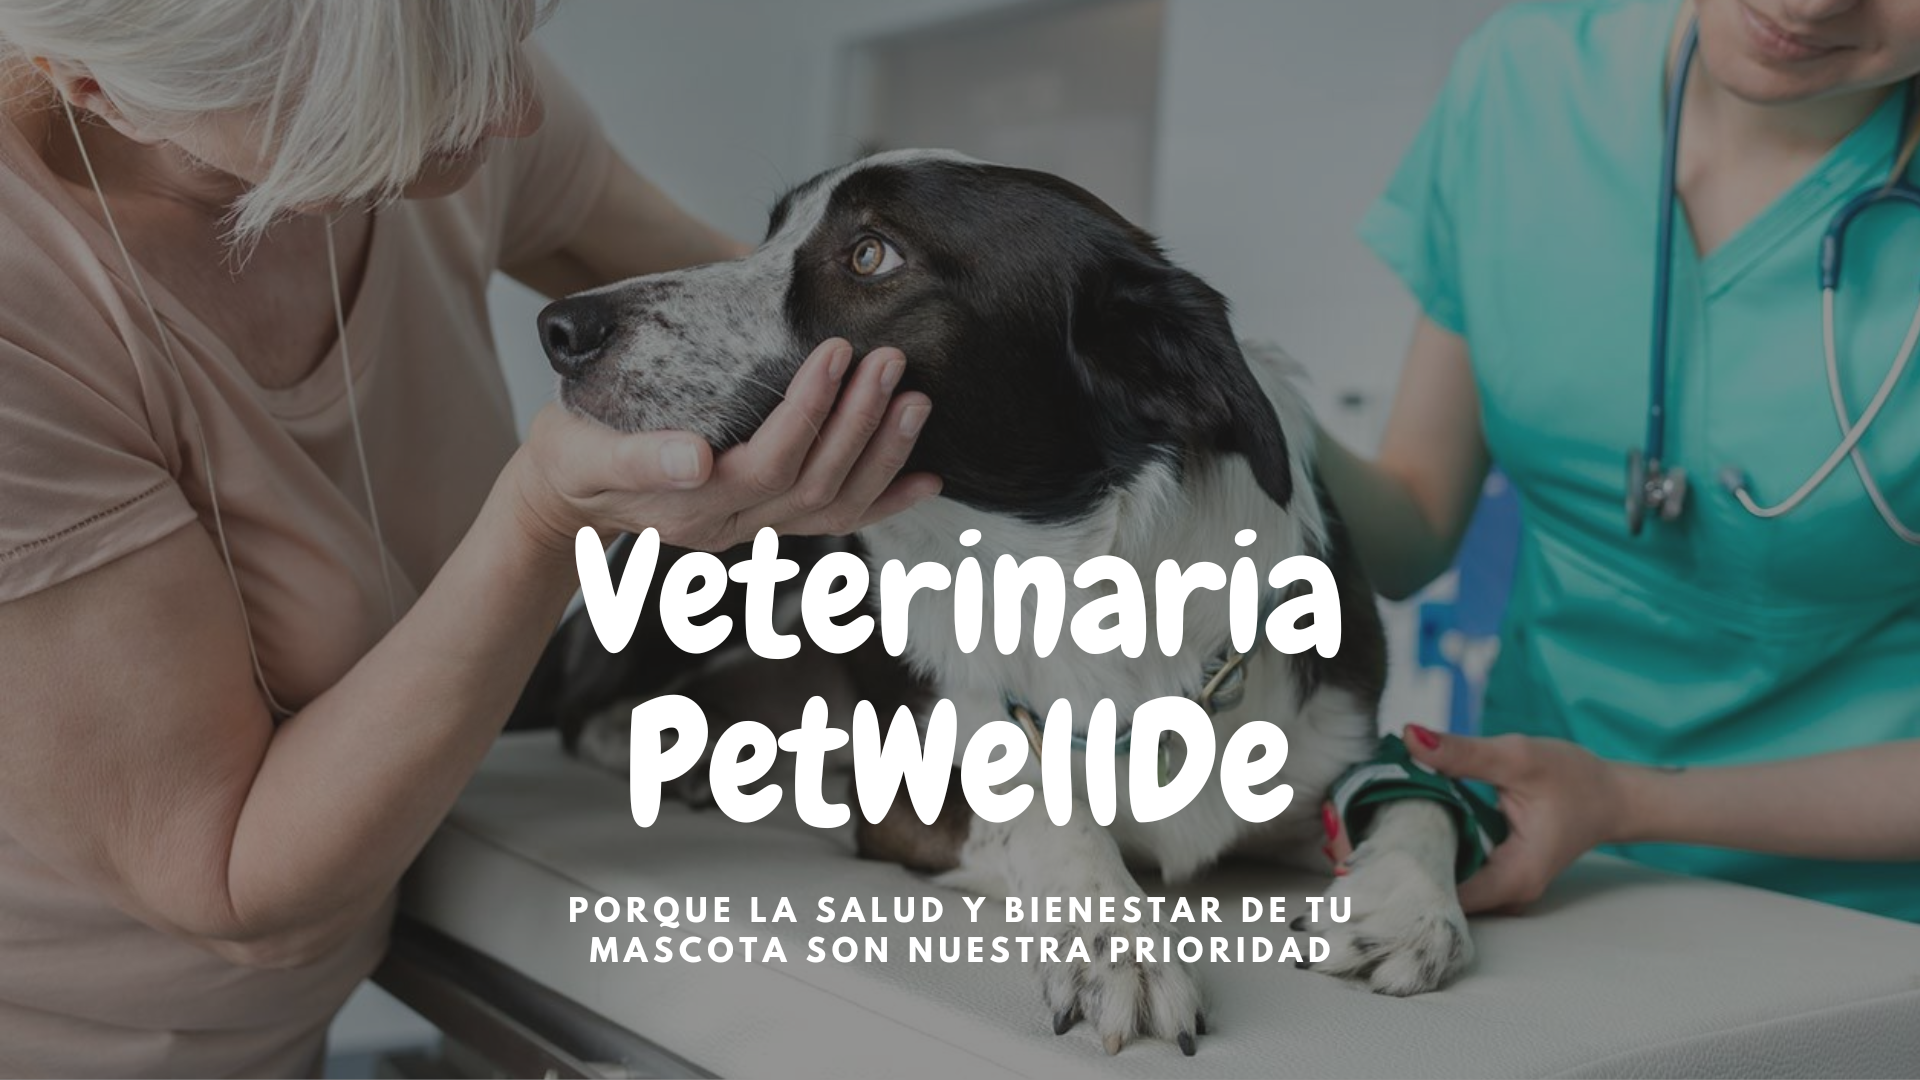
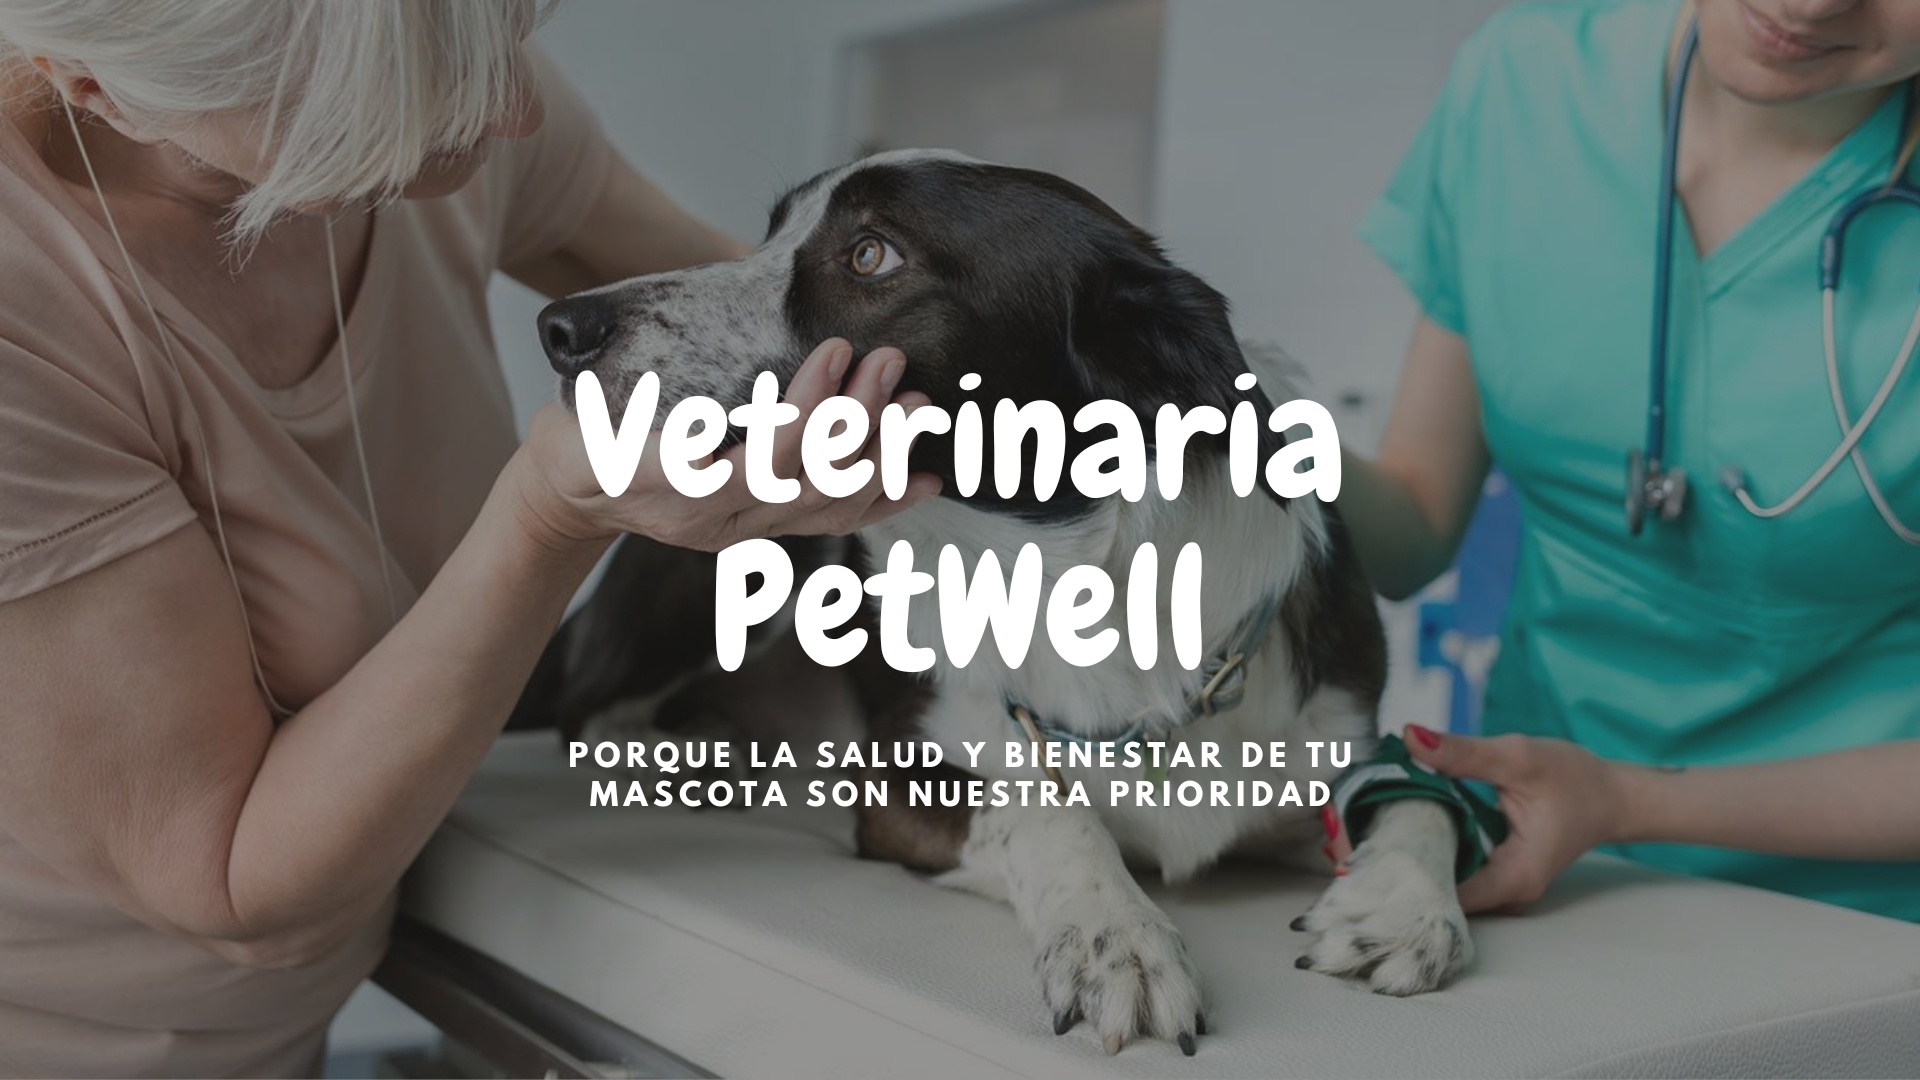
finished the first version of the website

Changed region(s): [[0.2812, 0.4889, 0.7188, 0.7639], [0.2812, 0.3361, 0.7188, 0.4583], [0.2812, 0.825, 0.7188, 0.8861]]

diff --git a/DjangoPostgres/DjangoPostgres/templates/pages/home.html b/DjangoPostgres/DjangoPostgres/templates/pages/home.html
@@ -1,21 +1,21 @@
 {% extends '../base.html' %}
 {% load static %}
 
-{% block title %} Veterinaria {% endblock %}
+{% block title %} PetWell {% endblock %}
 
 {% block content %}
-    <!-- ============ CAROUSEL ============ -->
+    <!-- ================= CAROUSEL ================= -->
     <div class="container_main">
         <div id="carouselExampleControls" class="carousel slide" data-ride="carousel">
             <div class="carousel-inner">
                 <div class="carousel-item active">
-                    <img src="{% static "imgs/perrito1.png" %}" class="d-block w-100" alt="Perro1">
+                    <img src="{% static 'imgs/perrito1.png' %}" class="d-block w-100" alt="Perro1">
                 </div>
                 <div class="carousel-item">
-                    <img src="{% static "imgs/perrito2.png" %}" class="d-block w-100" alt="Perro2">
+                    <img src="{% static 'imgs/perrito2.png' %}" class="d-block w-100" alt="Perro2">
                 </div>
                 <div class="carousel-item">
-                    <img src="{% static "imgs/perrito3.png" %}" class="d-block w-100" alt="Perro3">
+                    <img src="{% static 'imgs/perrito3.png' %}" class="d-block w-100" alt="Perro3">
                 </div>
             </div>
             <button class="carousel-control-prev" type="button" data-target="#carouselExampleControls" data-slide="prev">
@@ -28,13 +28,256 @@
             </button>
         </div>
     </div>
-    <!-- ============ END CAROUSEL ============ -->
+    <!-- ================= END CAROUSEL ================= -->
 
-    <!-- ABOUT US -->
+    <!-- ================= ABOUT US ================= -->
     <section id="about">
-        <h1>Sobre nosotros</h1>
+        <h1 class="title">Sobre nosotros</h1>
+        <div class="container div-main-about">
+            <div class="img-cat-about">
+                <img src="{% static 'imgs/perrito-doctor.png' %}" alt="">
+            </div>
+            <div class="text-about">
+                <p class="text">
+                    PetWell ofrece una amplia gama de servicios para satisfacer las necesidades de salud y bienestar de las mascotas de sus clientes. Estos servicios incluyen, pero no se limitan a: <br> <br>
+                    - Consultas veterinarias y exámenes físicos de rutina <br>
+                    - Vacunación y desparasitación <br>
+                    - Cirugía general y especializada <br>
+                    - Diagnóstico y tratamiento de enfermedades y lesiones <br>
+                    - Análisis de laboratorio y radiología <br>
+                    - Cuidado dental y limpieza de dientes <br>
+                    - Nutrición y dietas personalizadas <br> 
+                    - Hospedaje y cuidado de mascotas <br>
+                    - Peluquería y baño <br>
+                    - Servicios de emergencia y cuidados intensivos
+                </p>
+                <p class="text">
+                    Además, PetWell se compromete a brindar un servicio personalizado y cercano a sus clientes, proporcionando un ambiente amigable y acogedor tanto para las mascotas como para sus dueños.
+                </p>
+            </div>
+        </div>
     </section>
-    <!-- END ABOUT US -->
+    <!-- ================= END ABOUT US ================= -->
+
+    <!-- ================= SERVICES ================= -->
+    <section id="services">
+        <h1 class="title">Servicios</h1>
+        <div class="container div-main-services">
+            <table class="table">
+                <thead class="thead-dark">
+                  <tr>
+                    <th scope="col">#ID</th>
+                    <th scope="col">Nombre</th>
+                    <th scope="col">Fecha</th>
+                    <th scope="col">Servicio</th>
+                    <th scope="col">Acción</th>
+                  </tr>
+                </thead>
+                <tbody>
+                  <tr>
+                    <th scope="row">1</th>
+                    <td>Mark</td>
+                    <td>22/03/2022</td>
+                    <td>Baño completo</td>
+                    <td>
+                        <button type="button" class="btn btn-primary">Editar</button>
+                        <button type="button" class="btn btn-danger">Eliminar</button>
+                    </td>
+                  </tr>
+                  <tr>
+                    <th scope="row">2</th>
+                    <td>Jacob</td>
+                    <td>21/03/2022</td>
+                    <td>Limpieza Dental</td>
+                    <td>
+                        <button type="button" class="btn btn-primary">Editar</button>
+                        <button type="button" class="btn btn-danger">Eliminar</button>
+                    </td>
+                  </tr>
+                  <tr>
+                    <th scope="row">3</th>
+                    <td>Larry</td>
+                    <td>20/03/2022</td>
+                    <td>Corte de uñas</td>
+                    <td>
+                        <button type="button" class="btn btn-primary">Editar</button>
+                        <button type="button" class="btn btn-danger">Eliminar</button>
+                    </td>
+                  </tr>
+                  <tr>
+                    <th scope="row">3</th>
+                    <td>Alberto</td>
+                    <td>109/03/2022</td>
+                    <td>Corte de uñas</td>
+                    <td>
+                        <button type="button" class="btn btn-primary">Editar</button>
+                        <button type="button" class="btn btn-danger">Eliminar</button>
+                    </td>
+                  </tr>
+                  <tr>
+                    <th scope="row">3</th>
+                    <td>Joaquin</td>
+                    <td>18/03/2022</td>
+                    <td>Baño completo</td>
+                    <td>
+                        <button type="button" class="btn btn-primary">Editar</button>
+                        <button type="button" class="btn btn-danger">Eliminar</button>
+                    </td>
+                  </tr>
+                </tbody>
+              </table>
+        </div>
+    </section>
+    <!-- ================= END SERVICES ================= -->
+
+
+    <!-- ================= CONTACT ================= -->
+    <section id="contact">
+        <h1 class="title">Contacto</h1>
+        <div class="container div-main-contact">
+            <div class="form-about">
+                <form>
+                    <div class="form-group">
+                        <label for="exampleInputName">Nombre completo</label>
+                        <input type="text" class="form-control" id="exampleInputName">
+                    </div>
+                    <div class="form-group">
+                      <label for="exampleInputEmail1">Correo</label>
+                      <input type="email" class="form-control" id="exampleInputEmail1" aria-describedby="emailHelp">
+                      <small id="emailHelp" class="form-text text-muted">Nunca compartiremos su correo electrónico con nadie más.</small>
+                    </div>
+                    <div class="form-group">
+                        <label for="FormControlTextarea">Mensaje</label>
+                        <textarea class="form-control" id="FormControlTextarea" rows="5"></textarea>
+                    </div>
+                    <button class="btn btn-primary">Submit</button>
+                </form>
+            </div>
+            <div class="social-media">
+                
+            </div>
+        </div>
+    </section>
+    <!-- ================= END CONTACT ================= -->
+
+    <!-- ================= FOOTER ================= -->
+    <footer class="bg-primary text-center text-lg-start text-white">
+        <div class="container p-4">
+        <div class="row my-4">
+            <div class="col-lg-3 col-md-6 mb-4 mb-md-0">
+
+                <div class="rounded-circle bg-white shadow-1-strong d-flex align-items-center justify-content-center mb-4 mx-auto" style="width: 150px; height: 150px;">
+                    <img src="https://mdbootstrap.com/img/Photos/new-templates/animal-shelter/logo.png" height="70" alt=""
+                        loading="lazy" />
+                </div>
+
+                <p class="text-center">Veterinaria PetWell especializada en el cuidado de tu mascota. !Te garantizamos un servicio de calidad!</p>
+
+                <ul class="list-unstyled d-flex flex-row justify-content-center">
+                    <li>
+                    <a class="text-white px-2" href="#!">
+                        <i class="fab fa-facebook-square"></i>
+                    </a>
+                    </li>
+                    <li>
+                    <a class="text-white px-2" href="#!">
+                        <i class="fab fa-instagram"></i>
+                    </a>
+                    </li>
+                    <li>
+                    <a class="text-white ps-2" href="#!">
+                        <i class="fab fa-youtube"></i>
+                    </a>
+                    </li>
+                </ul>
+
+            </div>
+            <!--Grid column-->
+
+            <!--Grid column-->
+            <div class="col-lg-3 col-md-6 mb-4 mb-md-0">
+            <h5 class="text-uppercase mb-4">Animales</h5>
+
+            <ul class="list-unstyled">
+                <li class="mb-2">
+                <a href="#!" class="text-white"><i class="fas fa-paw pe-3"></i>Cuando tu mascota se perdio</a>
+                </li>
+                <li class="mb-2">
+                <a href="#!" class="text-white"><i class="fas fa-paw pe-3"></i>Tu primera interacción con nosotros</a>
+                </li>
+                <li class="mb-2">
+                <a href="#!" class="text-white"><i class="fas fa-paw pe-3"></i>Como adoptar con nosotros</a>
+                </li>
+                <li class="mb-2">
+                <a href="#!" class="text-white"><i class="fas fa-paw pe-3"></i>Mascotas para adopción</a>
+                </li>
+                <li class="mb-2">
+                <a href="#!" class="text-white"><i class="fas fa-paw pe-3"></i>Materiales</a>
+                </li>
+                <li class="mb-2">
+                <a href="#!" class="text-white"><i class="fas fa-paw pe-3"></i>Ayudanos a mejorar</a>
+                </li>
+            </ul>
+            </div>
+            <!--Grid column-->
+
+            <!--Grid column-->
+            <div class="col-lg-3 col-md-6 mb-4 mb-md-0">
+            <h5 class="text-uppercase mb-4">Información relevante</h5>
+
+            <ul class="list-unstyled">
+                <li class="mb-2">
+                <a href="#!" class="text-white"><i class="fas fa-paw pe-3"></i>Información general</a>
+                </li>
+                <li class="mb-2">
+                <a href="#!" class="text-white"><i class="fas fa-paw pe-3"></i>Sobre nosotros</a>
+                </li>
+                <li class="mb-2">
+                <a href="#!" class="text-white"><i class="fas fa-paw pe-3"></i>Datos satisfactorios</a>
+                </li>
+                <li class="mb-2">
+                <a href="#!" class="text-white"><i class="fas fa-paw pe-3"></i>Trabajos</a>
+                </li>
+                <li class="mb-2">
+                <a href="#!" class="text-white"><i class="fas fa-paw pe-3"></i>Tendencias</a>
+                </li>
+                <li class="mb-2">
+                <a href="#!" class="text-white"><i class="fas fa-paw pe-3"></i>Contacto</a>
+                </li>
+            </ul>
+            </div>
+            <!--Grid column-->
+
+            <!--Grid column-->
+            <div class="col-lg-3 col-md-6 mb-4 mb-md-0">
+            <h5 class="text-uppercase mb-4">Contacto</h5>
+
+            <ul class="list-unstyled">
+                <li>
+                <p><i class="fas fa-map-marker-alt pe-2"></i>Warsaw, 57 Street, Poland</p>
+                </li>
+                <li>
+                <p><i class="fas fa-phone pe-2"></i>+ 52 999 567 8972</p>
+                </li>
+                <li>
+                <p><i class="fas fa-envelope pe-2 mb-0"></i>petwell@gmail.com</p>
+                </li>
+            </ul>
+            </div>
+            <!--Grid column-->
+        </div>
+        <!--Grid row-->
+        </div>
+        <!-- Grid container -->
+
+        <!-- Copyright -->
+        <div class="text-center p-3" style="background-color: rgba(0, 0, 0, 0.2)">
+        © 2020 Copyright:
+        <a class="text-white" href="#">Veterinaria PetWell</a>
+        </div>
+        <!-- Copyright -->
+    </footer>
+    <!-- ================= END FOOTER ================= -->
 
     <!-- <div class="container">
         <div class="row">

diff --git a/DjangoPostgres/static/css/styles.css b/DjangoPostgres/static/css/styles.css
@@ -1,3 +1,52 @@
+@import url('https://fonts.googleapis.com/css2?family=Delicious+Handrawn&display=swap');
+@import url('https://fonts.googleapis.com/css2?family=Montserrat+Alternates:wght@300&display=swap');
+
+:root {
+    --font-title-family: 'Delicious Handrawn', cursive;
+    --font-text-family: 'Montserrat Alternates', sans-serif;
+
+}
+
 html {
     scroll-behavior: smooth;
 }
+
+/* ============= ABOUT ============= */
+#about {
+    margin: 2%;
+    height: 100vh;
+}
+
+.title {
+    font-family: var(--font-title-family);
+    font-size: 70px;
+    text-align: center;
+    margin-bottom: 5%;
+}
+
+.text {
+    font-family: var(--font-text-family);
+    text-align: justify;
+    font-weight: bold;
+}
+
+.div-main-about {
+    display: flex;
+    align-items: center;
+    gap: 5%;
+}
+/* ============= END ABOUT ============= */
+
+/* ============= SERVICES ============= */
+#services {
+    margin: 2%;
+    height: 100vh;
+}
+/* ============= END SERVICES ============= */
+
+/* ============= CONTACT ============= */
+#contact {
+    margin: 2%;
+    height: 100vh;
+}
+/* ============= END CONTACT ============= */

diff --git a/DjangoPostgres/DjangoPostgres/templates/base.html b/DjangoPostgres/DjangoPostgres/templates/base.html
@@ -7,7 +7,8 @@
     <meta http-equiv="X-UA-Compatible" content="IE=edge">
     <meta name="viewport" content="width=device-width, initial-scale=1.0">
     <title>{% block title %}{% endblock %}</title>
-    <link rel="stylesheet" href="{% static "css/styles.css" %}">
+    <link rel="stylesheet" href="{% static 'css/styles.css' %}">
+    <link rel="stylesheet" href="https://cdnjs.cloudflare.com/ajax/libs/font-awesome/6.3.0/css/all.min.css">
     <link rel="stylesheet" href="https://cdn.jsdelivr.net/npm/bootstrap@4.6.1/dist/css/bootstrap.min.css" integrity="sha384-zCbKRCUGaJDkqS1kPbPd7TveP5iyJE0EjAuZQTgFLD2ylzuqKfdKlfG/eSrtxUkn" crossorigin="anonymous">
   </head>
   <body>
